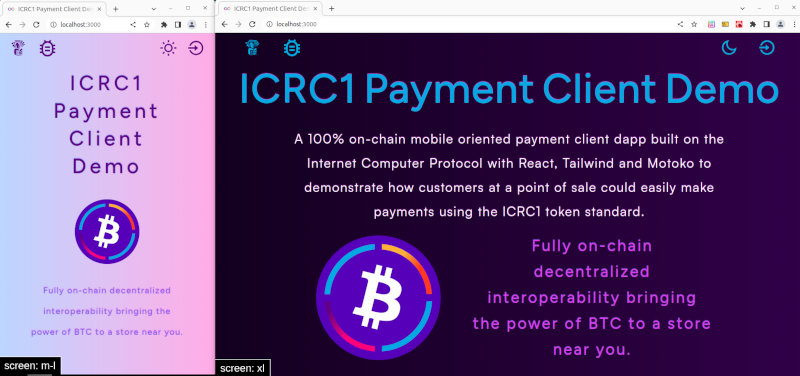
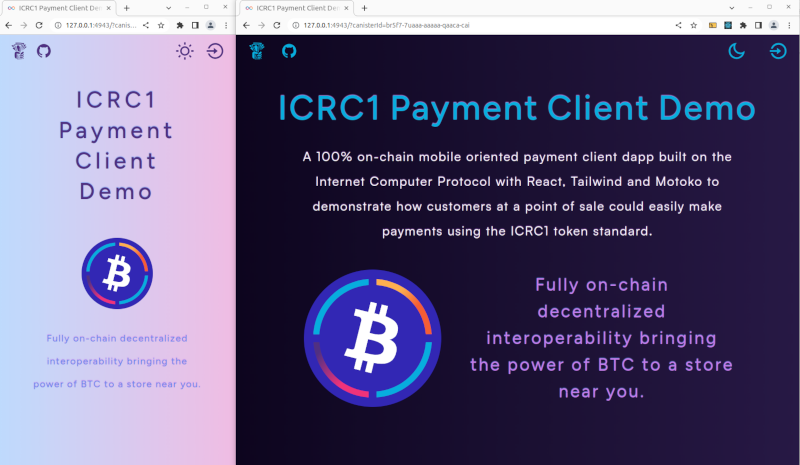
added screenshots

diff --git a/README.md b/README.md
@@ -3,9 +3,8 @@
 ## Adaption of BNT-3 ICRC1 Compliant Payment Flow with web workers, Tailwind &amp; more...
 
 <p align="center">
-  <img width="800" height="auto" src="./imgs/landing_screenshot_800w.png">
+  <img width="800" height="auto" alt="Screenshot of Landing Page" src="./imgs/landing_screenshot_800w.png">
 </p>
-
 
 ### Project Structure
  - [backend](./src/backend/) - backend canister processing ICRC1 payments 
@@ -16,6 +15,9 @@
  - [icrc1-token-canister](./src/icrc1-token-canister/) - Dfinity provided rosetta based ICRC1 canister wasm and did used to develop backend's interactions with mainnet ICRC1 token canister 
 
 ### Setup
+
+Note the setup script requires the current dfx identity not to require unlocking each time a dfx command is issued. 
+
  1. Clone a local copy from [insert github link]
  2. Install local dependencies and start the local replica testnet configured for the project by entering the command:
  ```bash
@@ -37,11 +39,22 @@ Working with the backend in a Javascript environment is available in the `workbe
 ```
 You should see that file's console log output in the terminal. Alternatively you can use the Candid UI to interact with the backend canister in the browser, visit the [Internet Computer Guide](https://internetcomputer.org/docs/current/developer-docs/backend/motoko/candid-ui) for more information.
 
+Also note in the local testnet, the current dfx identity will receive 100 ICRC1 tokens (normal units) in the ICRC1 account corresponding to the subaccount address created for that identity by the backend payment processing canister. 
 ### Testing
   1. After a local copy is cloned, all testing can be done by entering the command:
 ```bash
 npm run test
 ```
+
+All tests are in the [src/test](./src/test/) subdirectory and are managed by the same `Vitest` instance.
+
+The results of the tests will displayed in the terminal output. 
+
+To run tests in watch mode, first `cd` into `src/tests` and then run `npm run test`. Testing is made up of the units tests of the frontend and backend, and the integrated E2E testing which is focused on how the [utils of the web worker](./src/frontend/src/worker/utils.js) process the calls and responses of the backend canister's API and how they are become a part ofthe UI via the `reducer` (that is also used by `CanisterProvider`). For more dedicated projects, using an E2E testing library like [Cypress](https://www.cypress.io/) would provide better coverage. 
+
+An important note is that different environments are used for testing (`jsdom` versus `node`), and `jsdom` may require additional configuration for it to work with `agent-js` out of the box.
+
+This test identity is the ED25519 key pair provided by the `dfx nns extension` code base. If the project is started with the testing flag (`npm run test` in the project's root directory) this identity will receive 100 CVCMICRC1 to use.
 
 ### Note on Setup and Test Scripts
 
@@ -73,15 +86,13 @@ All the API methods are typed which can be viewed in its [Types.mo](./src/backen
 
 This is a Vite bundled, React and Tailwind based web app that uses a web worker to handle all processing with the backend canister so it occurs off the main thread. 
 
+Web workers have a different context and 
+
 For more details, check out its [README](./src/frontend/README.md).
 
-### Tests
-
-Testing is made up of the units tests of the frontend and backend, and the integrated end to end testing which is focused on the interaction of the custom React hooks from the frontend, the web worker's data transfer model processing utility methods, and the backend canister's API. 
-
-There is additional testing of the backend canister for the API methods not available to the frontend, such as the `set_icrc1_token_canister_id` method. 
-
-An example workspace for iterating development as shown by developing this E2E testing is available in the `workbench` subproject. 
+<p align="center">
+  <img width="800" height="auto" alt="Screenshot of Home Page" src="./imgs/home_screenshot_800w.png">
+</p>
 
 ### Additional Links
 

diff --git a/src/frontend/README.md b/src/frontend/README.md
@@ -10,11 +10,24 @@ This is done within a context provider [CanisterProvider.jsx](./src/feature/cani
 ### Pages
 
 - [Landing.jsx](./src/pages/Landing.jsx) - the not-authenticated arguably lackluster landing page.  
+<p align="center">
+  <img width="800" height="auto" alt="Screenshot of Landing Page" src="../../imgs/landing_screenshot_800w.png">
+</p>
+
 - [Home.jsx](./src/pages/Home.jsx) - the authenticated landing page, shows the [AccountOverview.jsx](./src/feature/home/AccountOverview.jsx) and [ICRC1CanisterMetadata.jsx](./src/feature/home/ICRC1CanisterMetadata.jsx) components which show the stats associated with the caller's ICRC1 subaccount (currently only one per caller--the funds of which payments debits are withdrawn from and can be credited by depositing into its QR code displayed address) and the associated ICRC1 token canister metadata (including its canister id, and svg encoded logo if available).  
+
+<p align="center">
+  <img width="800" height="auto" alt="Screenshot of Home Page" src="../../imgs/home_screenshot_800w.png">
+</p>
+
 - [Payments.jsx](./src/pages/Payments.jsx) - the very mobile responsive list of payments featuring the custom built [AutoEllipsizingTextSpan.jsx](./src/components/AutoEllipsizingTextSpan.jsx) which ellipsizes the address into its leading and trailing five characters or if a subaccount is present also includes the checksum and the the first three characters of the subaccount (unless the subaccount is shorter than its ellipsized form, in which case the entire subaccount is included); although `AutoEllipsizingTextSpan.jsx` will ellipsize any text to its full width according to the ellipsize function provided, the default value being `ellipsizeICRC1Address` from [ellipsize-ICRC1-characters.js](./src/utils/ellipsize-ICRC1-address.js).  
 - [PaymentDetails.jsx](./src/pages/PaymentDetails.jsx) - shows the details of a payment when a user "clicks" on one in the `Payments` listing, using its id via the page's `useParams` encoded route which is passed to the `getPaymentById` from `useCanister` and shows all the details of that payment including its current status which will include the transaction index and time if successful, or time and transfer err or inter-canister caught err if failed (unless it was to an invalid recipient address, which is handled by this client but that's not the canister's only potential caller); or the payment will be pending. Note the payment can be copied into a new send payment by clicking the copy icon in the nav bar on this page.  
 - [SendPayment.jsx](./src/pages/SendPayment.jsx) - contains the form for sending a new payment that uses Formik for managing inputs, errors and validation. It also uses a [QrCodeScanner.jsx](./src/feature/qr-code-scanner/QrCodeScanner.jsx) together with the payment decoding utils of [ic-js](https://github.com/dfinity/ic-js) to set the input fields if a valid payment encoding is scanned. 
-  
+
+<p align="center">
+  <img width="800" height="auto" alt="Screenshot of Home Page" src="../../imgs/sendpayment_ok_screenshot_800w.png">
+</p>
+
 ### Web Worker
 
 Note that as all the canister communication is handled by the background processing ("non-blocking") of the web worker, when the inputs are valid for a payment to be sent, and it is submitted by the form on that page, the UI immediately creates a pending payment viewmodel, using the `clientPaymentId` UI created UUID as its key, when the args for the backend's `send_payment` API method are created from the inputs by [prepareSendPaymentArgs](./src/utils/utils.js#L155). This payment view model is passed to the `CanisterProvider`'s `reducer` at the same time the args are sent as an event's data to the web worker to make the call to the backend canister's `send_payment` method. 
